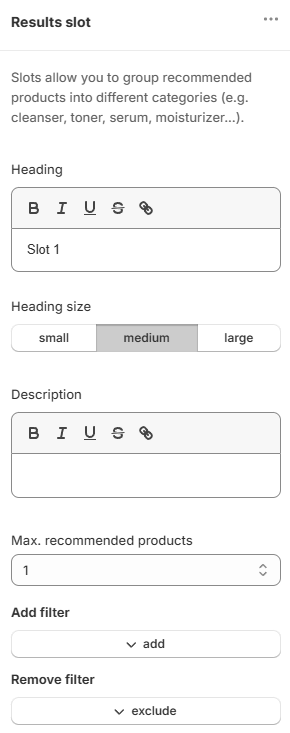
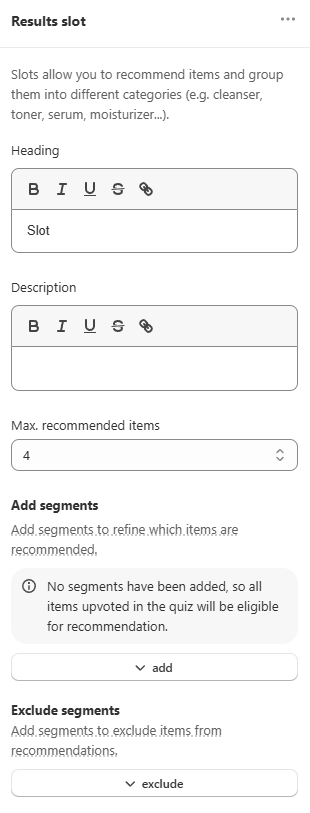
updated manual shopify v2 product block settings

diff --git a/docs/reference/quiz-builder.md b/docs/reference/quiz-builder.md
@@ -3206,7 +3206,9 @@
 
     ![manual_shopifyV2_quizbuilder_quizbuilder_resultspage_resultspages_blocksettings_products](/images/manual_shopifyV2_quizbuilder_quizbuilder_resultspage_resultspages_blocksettings_products.png)
 
-    *Recommendation type:* - Select whether you prefer to recommend the main products or a product variants. In case of collections there's no extra menu.
+    *Recommendation type:* - Select whether you prefer to recommend the main product, product variants or collections.
+
+    *Recommendations system* - Select whether you prefer to show dynamic recommendations based on customer responses or a fixed set of recommended products, varaints or collections.
 
     *Min. number of votes:* - Select what minimum number of votes a product or a varaints should receive in order to be displayed in this product block. If a product receives less votes than specified here at the end of the quiz, it will not be shown.
 
@@ -3252,13 +3254,13 @@
 
     *Max. recommended products* - The maximum number of products allowed to be displayed in the slot block.
 
-    **Add filter** - Click `v Add` to select products from which Collections, Tags, Variants or Vendors will be shown in this slot block.
+    **Add segments** - Click `v Add` to select products from which Collections, Tags, Variants or Vendors will be shown in this slot block.
 
     !!! warning
 
         If you add a filter, the slot will be able to display the most voted products from the linked collections.
 
-    **Remove filter** - Click `v Exclude` to choose products from which Collections, Tags, Variants or Vendors will not be allowed to be shown in this slot block.
+    **Exclude segments** - Click `v Exclude` to choose products from which Collections, Tags, Variants or Vendors will not be allowed to be shown in this slot block.
 
 
 
